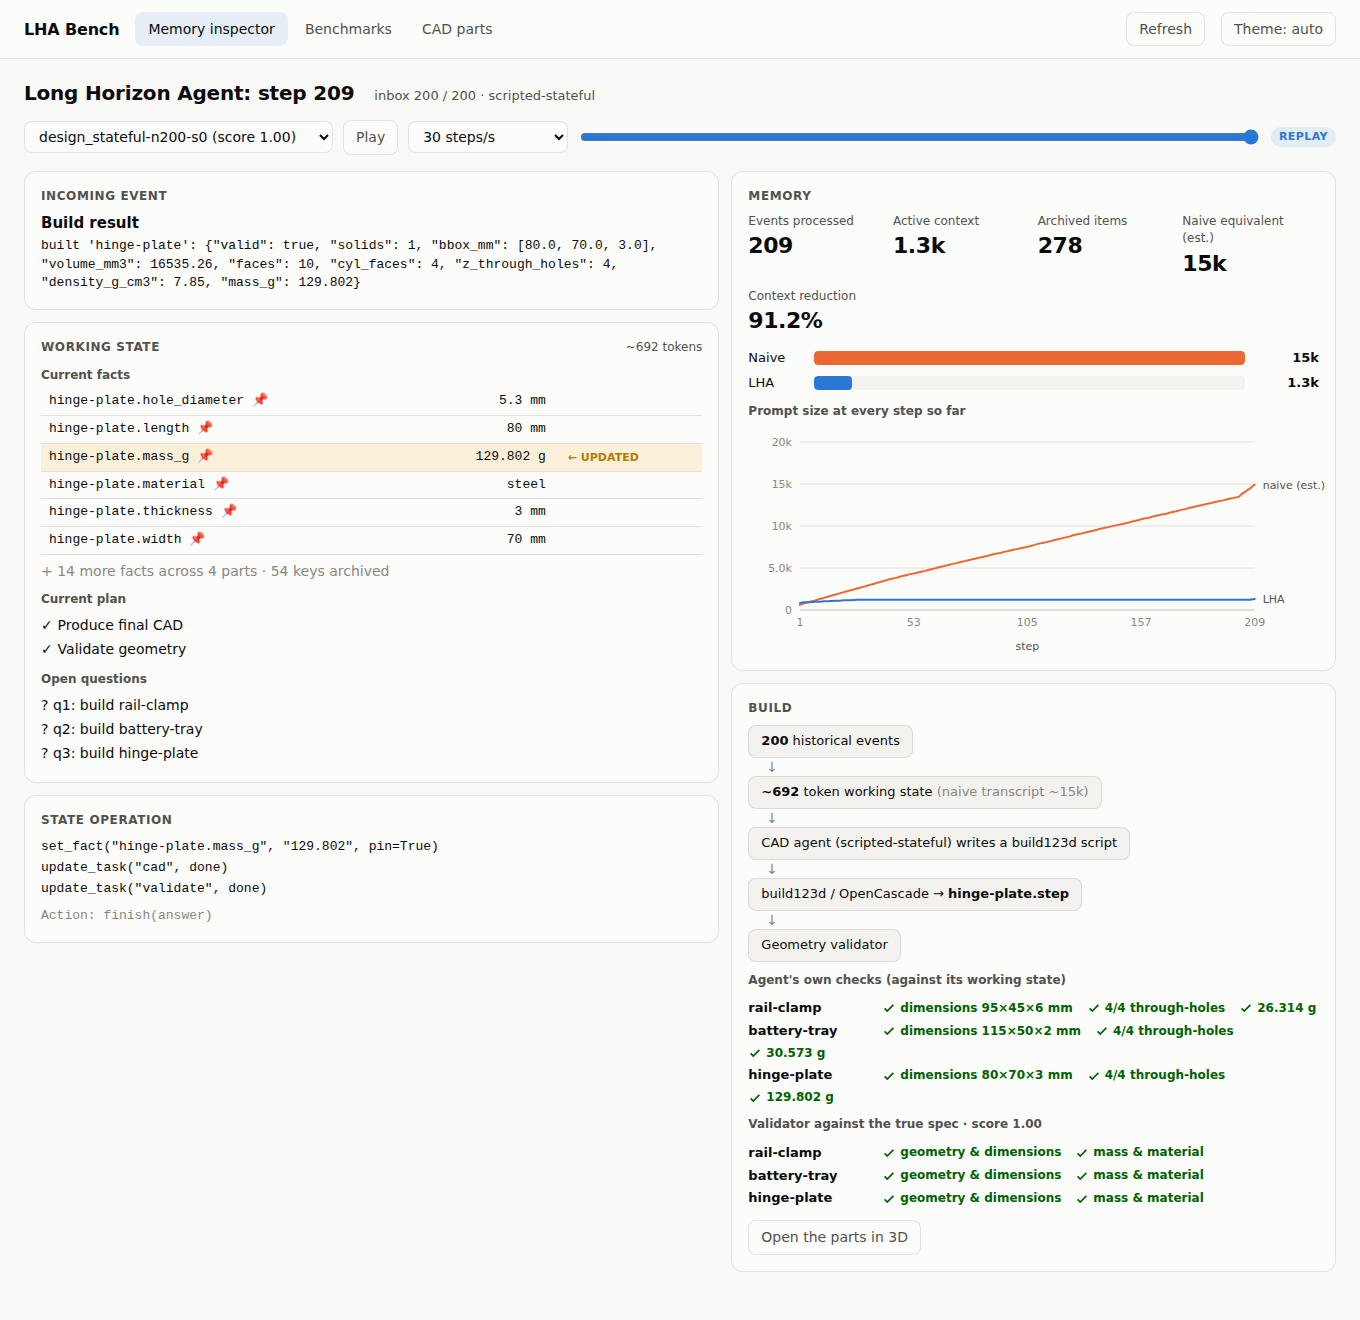
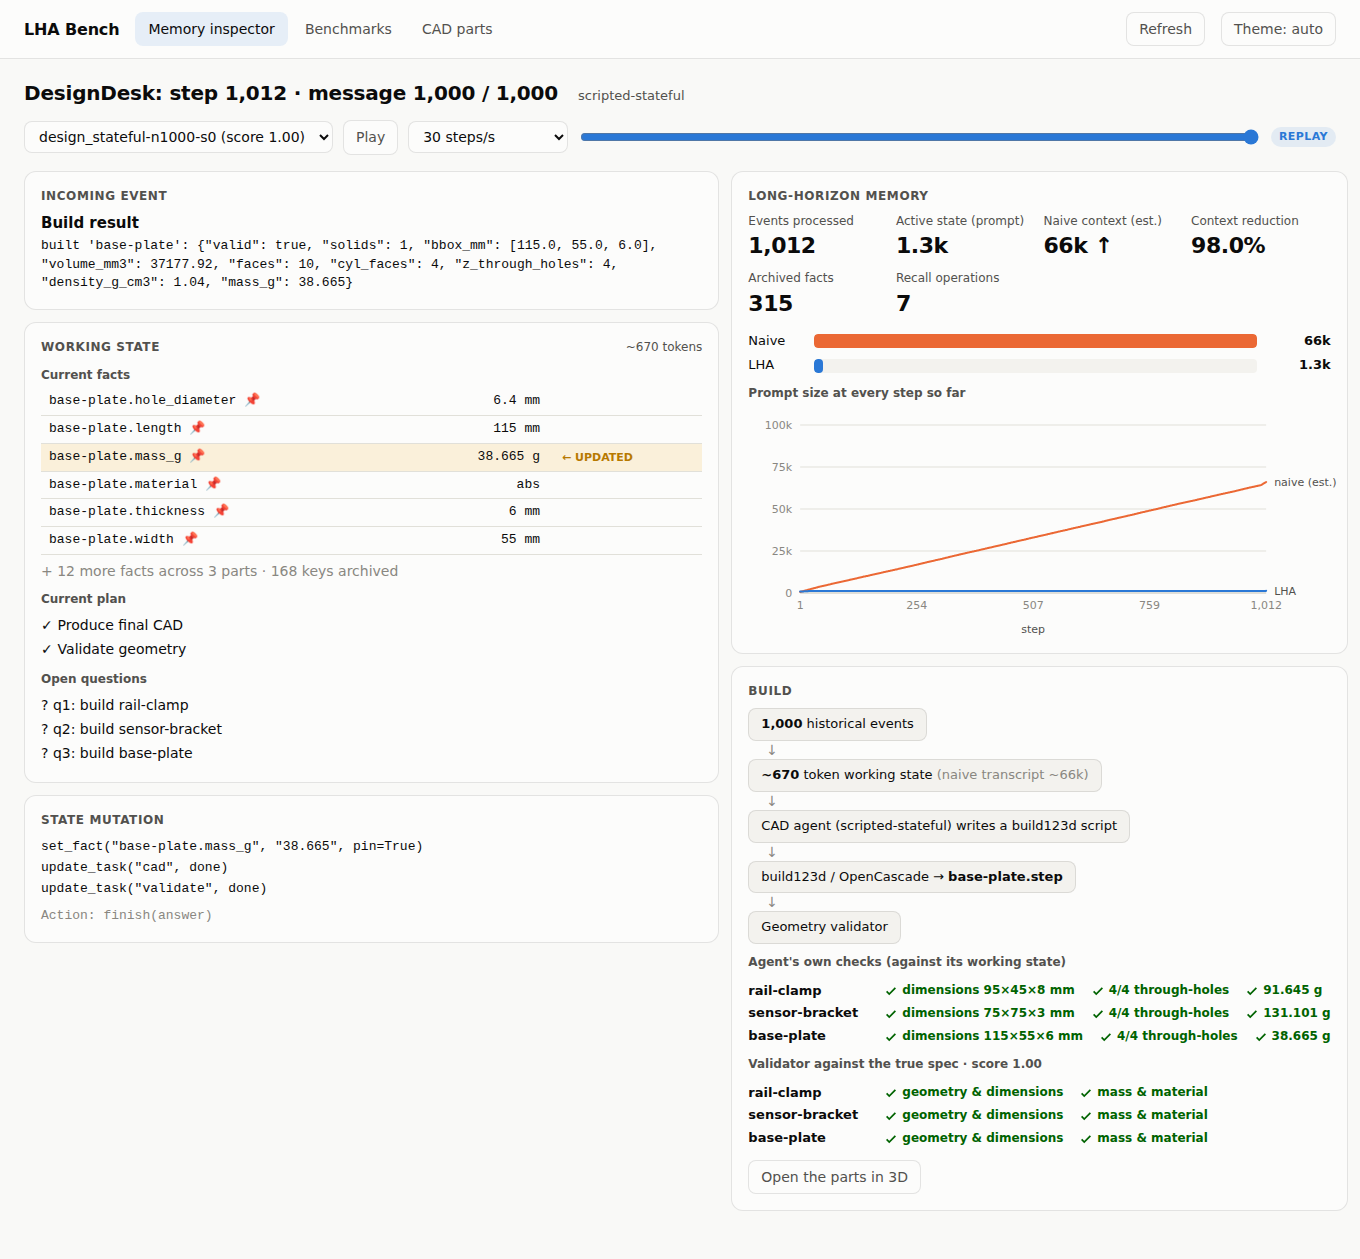
Inspector: state mutation fork, archived-fact and recall counters, benchmark header
Brings the Memory State Inspector (terminal and dashboard) closer to the
spec'd layout:
- STATE MUTATION: an overwrite is drawn as old -> new, forking into the
  ACTIVE value and the superseded value sent to the ARCHIVE
- LONG-HORIZON MEMORY: active prompt vs naive context (with an up arrow
  while it grows), context reduction, archived facts and recall operations
  (cumulative), replacing the raw archive-item count
- header names the benchmark and message position:
  DESIGNDESK — STEP 822 · MESSAGE 821 / 1,000
- dashboard: fix a stray 'null' under the incoming event
- README frame, wording and screenshots updated; test covers the fork,
  counters and header

Claude-Session: https://claude.ai/code/session_014SvQR54nJWjQ6PdBPU4Ngb

diff --git a/lha/ui/index.html b/lha/ui/index.html
@@ -117,6 +117,14 @@ pre { background: var(--surface-2); border-radius: 8px; padding: 12px; overflow:
 details summary { cursor: pointer; color: var(--text-secondary); font-size: 13px; }
 
 /* ---------------- memory inspector */
+.ops .fork { border: 1px solid var(--border); border-radius: 10px; padding: 10px 12px; margin: 2px 0 8px; background: var(--surface-2); }
+.fork-change { font-size: 16px; margin: 4px 0 8px; }
+.fork-split { display: grid; grid-template-columns: 1fr 1fr; gap: 8px; }
+.ops .fork-split > div { border-radius: 8px; padding: 6px 10px; display: grid; gap: 2px; }
+.fork-split span { font-size: 11px; font-weight: 700; letter-spacing: .06em; }
+.fork-split em { font-style: normal; font-size: 11px; color: var(--text-muted); }
+.fork-active { background: var(--accent-wash); } .fork-active span { color: var(--series-1); }
+.fork-archive { background: rgba(235,104,52,0.12); } .fork-archive span { color: #c25a1c; }
 .insp-head { display: flex; flex-wrap: wrap; align-items: baseline; gap: 12px 20px; margin-bottom: 12px; }
 .insp-head h2 { font-size: 20px; margin: 0; letter-spacing: -0.01em; }
 .insp-head .meta { color: var(--text-secondary); font-size: 13px; }
@@ -615,6 +623,7 @@ class Viewer {
 // ------------------------------------------------------------------ memory inspector
 // Replays runs/<run>/trace.jsonl (written by the stateful agent every step), or follows it live.
 const I = { run: null, recs: [], views: [], idx: 0, playing: false, timer: null, poll: null, total: null, summary: null, done: false };
+const appendAll = (node, ...kids) => node.append(...kids.filter(k => k != null && k !== false));
 const UNIT = { length: "mm", width: "mm", thickness: "mm", hole_diameter: "mm", mass_g: "g" };
 const withUnit = (k, v) => { const u = UNIT[k.split(".").pop()]; const s = typeof v === "string" ? v : JSON.stringify(v); return u ? `${s} ${u}` : s; };
 
@@ -652,7 +661,9 @@ async function pullTrace() {
 function deriveView(pv, prev, r) {
   // Context carried between steps: inbox position, the part in focus, the agent's builds so far.
   const event = prev?.observation || "";
-  const v = { event, prevTool: prev?.tool, inbox: pv?.inbox || [0, null], entity: pv?.entity || null, builds: pv?.builds || {} };
+  const v = { event, prevTool: prev?.tool, inbox: pv?.inbox || [0, null], entity: pv?.entity || null, builds: pv?.builds || {},
+    archivedFacts: (pv?.archivedFacts || 0) + r.archived.filter(a => a[0].endsWith("_fact")).length,
+    recalls: (pv?.recalls || 0) + (r.tool === "recall" ? 1 : 0), prevNaive: prev?.naive_tokens ?? null };
   const m = event.match(/^msg (\d+)\/(\d+):/); if (m) v.inbox = [+m[1], +m[2]];
   const first = (r.ops || []).find(o => o.op === "set_fact")?.key;
   const changed = r.changes.map(c => c[0]);
@@ -688,8 +699,9 @@ function renderInspector() {
   $("#i-badge").textContent = I.done ? "REPLAY" : "LIVE"; $("#i-badge").className = "badge" + (I.done ? "" : " live");
   if (!r) return;
   const [read, total] = v.inbox;
-  $("#i-title").textContent = `Long Horizon Agent: step ${fmt(r.step)}`;
-  $("#i-meta").textContent = [total ? `inbox ${fmt(read)} / ${fmt(total)}` : null, r.model].filter(Boolean).join(" · ");
+  const bench = I.run.includes("design_") ? "DesignDesk" : /^(live_)?(stateful|naive)-n\d+/.test(I.run) ? "IncidentDesk" : "Long Horizon Agent";
+  $("#i-title").textContent = `${bench}: step ${fmt(r.step)}` + (total ? ` · message ${fmt(read)} / ${fmt(total)}` : "");
+  $("#i-meta").textContent = r.model;
   const changed = new Set(r.changes.map(c => c[0]));
   const recalled = new Set((r.ops || []).filter(o => o.op === "set_fact" && o.source === "recall").map(o => o.key));
 
@@ -697,15 +709,15 @@ function renderInspector() {
   const ev = el("div", { class: "card" }, el("h3", { text: "Incoming event" }));
   const text = (v.event.split("\n")[0] || "(start of run)").replace(/^msg \d+\/\d+: /, "");
   const eco = text.match(/\[(ECO-\d+)\] ([\w-]+): (\w+) changed to ([\w.]+)/);
-  if (v.prevTool === "recall") ev.append(el("div", { class: "event-title", style: "color:var(--good-text)", text: "Recall result from the archive" }), el("div", { class: "mono", text: v.event.slice(0, 300) }));
-  else if (v.prevTool === "cad_build") ev.append(el("div", { class: "event-title", text: "Build result" }), el("div", { class: "mono", text: text.slice(0, 220) }));
+  if (v.prevTool === "recall") appendAll(ev, el("div", { class: "event-title", style: "color:var(--good-text)", text: "Recall result from the archive" }), el("div", { class: "mono", text: v.event.slice(0, 300) }));
+  else if (v.prevTool === "cad_build") appendAll(ev, el("div", { class: "event-title", text: "Build result" }), el("div", { class: "mono", text: text.slice(0, 220) }));
   else if (eco) {
     const key = `${eco[2]}.${eco[3]}`, old = r.changes.find(c => c[0] === key)?.[1];
     const line = el("div", { class: "event-change mono" }, `${key}: `, old != null ? `${withUnit(key, old)} → ` : "", el("b", { text: withUnit(key, eco[4]) }));
-    ev.append(el("div", { class: "event-title", text: `${eco[1]} APPROVED` }), line,
+    appendAll(ev, el("div", { class: "event-title", text: `${eco[1]} APPROVED` }), line,
       old == null ? el("div", { class: "muted", text: "not in the working state before: a first value, or the old one was archived" }) : null);
-  } else if (text.startsWith("INBOX EMPTY")) ev.append(el("div", { class: "event-title", text: "Inbox empty: build requests" }), el("div", { class: "mono", text: text.split("->")[1] || text }));
-  else ev.append(el("div", { class: "mono", text }), !r.changes.length && v.prevTool === "next_message" ? el("div", { class: "muted", text: "No state change: noise, a rejected proposal, or already known." }) : null);
+  } else if (text.startsWith("INBOX EMPTY")) appendAll(ev, el("div", { class: "event-title", text: "Inbox empty: build requests" }), el("div", { class: "mono", text: text.split("->")[1] || text }));
+  else appendAll(ev, el("div", { class: "mono", text }), !r.changes.length && v.prevTool === "next_message" ? el("div", { class: "muted", text: "No state change: noise, a rejected proposal, or already known." }) : null);
 
   // ---- working state
   const ws = el("div", { class: "card" }, el("h3", {}, "Working state", el("span", { text: `~${fmt(r.state_tokens)} tokens` })));
@@ -728,10 +740,24 @@ function renderInspector() {
   ws.append(el("div", { class: "sub2", text: "Open questions" }), el("div", { class: "plan" }, ...(r.questions.length ? r.questions.map(q => el("div", { text: "? " + q })) : [el("div", { class: "muted", text: "None" })])));
 
   // ---- state operation
-  const op = el("div", { class: "card" }, el("h3", { text: "State operation" }));
+  const op = el("div", { class: "card" }, el("h3", { text: "State mutation" }));
   const box = el("div", { class: "ops mono" });
+  const oldOf = Object.fromEntries(r.changes.map(c => [c[0], c[1]]));
+  let forks = 0;
   for (const o of (r.ops || []).slice(0, 8)) {
     let t;
+    if (o.op === "set_fact" && oldOf[o.key] != null && forks < 2) {
+      // an overwrite: the new value stays active, the old one goes to the archive
+      forks++;
+      const oldV = withUnit(o.key, oldOf[o.key]), newV = withUnit(o.key, o.value);
+      box.append(el("div", { class: "fork" },
+        el("div", {}, el("b", { text: "set_fact " }), o.key),
+        el("div", { class: "fork-change" }, `${oldV} → `, el("b", { text: newV })),
+        el("div", { class: "fork-split" },
+          el("div", { class: "fork-active" }, el("span", { text: "ACTIVE" }), el("b", { text: newV })),
+          el("div", { class: "fork-archive" }, el("span", { text: "ARCHIVE" }), el("b", { text: oldV }), el("em", { text: "superseded" })))));
+      continue;
+    }
     if (o.op === "set_fact") t = `set_fact("${o.key}", ${JSON.stringify(o.value)}${o.pin ? ", pin=True" : ""})`;
     else if (o.op === "update_task") t = `update_task("${o.id}", ${o.status})`;
     else t = `${o.op}(${Object.entries(o).filter(([k]) => k !== "op").map(([k, x]) => JSON.stringify(x)).join(", ").slice(0, 70)})`;
@@ -739,7 +765,7 @@ function renderInspector() {
   }
   if (!(r.ops || []).length) box.append(el("div", { class: "muted", text: "none" }));
   const sup = r.archived.filter(a => a[0] === "superseded_fact"), evi = r.archived.filter(a => a[0] === "evicted_fact" || a[0] === "dropped_fact");
-  if (sup.length) box.append(el("div", { class: "arch", text: "Superseded: " + sup.map(a => `${a[1]} = ${withUnit(a[1], a[2])} → archive`).join(", ") }));
+  if (sup.length > forks) box.append(el("div", { class: "arch", text: "Superseded: " + sup.map(a => `${a[1]} = ${withUnit(a[1], a[2])} → archive`).join(", ") }));
   if (evi.length) box.append(el("div", { class: "arch", text: "Evicted to archive (over budget): " + evi.map(a => a[1]).join(", ") }));
   if (recalled.size) box.append(el("div", { class: "rest", text: "Restored from archive: " + [...recalled].join(", ") }));
   if (r.op_errors?.length) box.append(el("div", { class: "err", text: "op errors: " + r.op_errors.join("; ") }));
@@ -753,9 +779,11 @@ function renderInspector() {
   // ---- memory
   const red = r.naive_tokens ? 100 * (1 - r.prompt_tokens / r.naive_tokens) : 0;
   const tile = (k, val) => el("div", {}, el("div", { class: "k", text: k }), el("div", { class: "v", text: val }));
-  const mem = el("div", { class: "card" }, el("h3", { text: "Memory" }),
-    el("div", { class: "mem" }, tile("Events processed", fmt(r.step)), tile("Active context", fmtTok(r.prompt_tokens)),
-      tile("Archived items", fmt(r.archive_size)), tile("Naive equivalent (est.)", fmtTok(r.naive_tokens)), tile("Context reduction", red.toFixed(1) + "%")));
+  const growing = v.prevNaive != null && r.naive_tokens > v.prevNaive;
+  const mem = el("div", { class: "card" }, el("h3", { text: "Long-horizon memory" }),
+    el("div", { class: "mem" }, tile("Events processed", fmt(r.step)), tile("Active state (prompt)", fmtTok(r.prompt_tokens)),
+      tile("Naive context (est.)", fmtTok(r.naive_tokens) + (growing ? " ↑" : "")), tile("Context reduction", red.toFixed(1) + "%"),
+      tile("Archived facts", fmt(v.archivedFacts)), tile("Recall operations", fmt(v.recalls))));
   const top = Math.max(r.naive_tokens, r.prompt_tokens, 1);
   const barRow = (name, n, color) => [el("div", { text: name }), el("div", { class: "track" }, (() => { const f = el("div", { class: "fill" }); f.style.width = Math.max(0.6, 100 * n / top) + "%"; f.style.background = css(color); return f; })()), el("div", { class: "n", text: fmtTok(n) })];
   mem.append(el("div", { class: "bars" }, ...barRow("Naive", r.naive_tokens, "--series-2"), ...barRow("LHA", r.prompt_tokens, "--series-1")));

diff --git a/lha/inspect.py b/lha/inspect.py
@@ -81,6 +81,10 @@ class Inspector:
         self.inbox = (0, total_messages)
         self.history: list[tuple[int, int, int]] = []  # (step, prompt, naive) for the bar history
         self.builds: dict[str, dict] = {}  # part -> the agent's own check of its latest build
+        self.archived_facts = 0  # facts moved to the archive so far: superseded, evicted or dropped
+        self.recalls = 0         # recall operations so far
+        self.bench = ("DESIGNDESK" if "design_" in run_id else
+                      "INCIDENTDESK" if re.match(r"(live_)?(stateful|naive)-n\d+", run_id) else "LONG HORIZON AGENT")
 
     def feed(self, rec: dict) -> str:
         frame = self.render(rec)
@@ -99,6 +103,8 @@ class Inspector:
         if built := re.search(r"built '([\w-]+)': (\{.*\})", event):
             self.builds[built[1]] = json.loads(built[2])
         self.history.append((rec["step"], rec["prompt_tokens"], rec["naive_tokens"]))
+        self.archived_facts += sum(1 for kind, *_ in rec["archived"] if kind.endswith("_fact"))
+        self.recalls += rec["tool"] == "recall"
 
         out = [self._header(rec), "", self._event(event, rec), "", self._state(rec, changed), "",
                self._operation(rec), "", self._memory(rec)]
@@ -108,9 +114,9 @@ class Inspector:
 
     def _header(self, rec: dict) -> str:
         read, total = self.inbox
-        inbox = f"INBOX {read:,} / {total:,}" if total else ""
-        left = bold(f"LONG HORIZON AGENT — STEP {rec['step']:,}")
-        right = dim(f"{inbox}   {rec.get('model', '')}")
+        msg = f" · MESSAGE {read:,} / {total:,}" if total else ""
+        left = bold(f"{self.bench} — STEP {rec['step']:,}{msg}")
+        right = dim(rec.get("model", ""))
         return left + " " * max(1, W - _vis(left) - _vis(right)) + right
 
     def _event(self, event: str, rec: dict) -> str:
@@ -162,11 +168,20 @@ class Inspector:
         return "\n".join(lines)
 
     def _operation(self, rec: dict) -> str:
-        lines = [rule("STATE OPERATION")]
+        lines = [rule("STATE MUTATION")]
         ops = rec["ops"] or []
+        old_of = {k: old for k, old, _ in rec["changes"]}
+        forks = 0
         for op in ops[:6]:
             kind = op.get("op", "?")
-            if kind == "set_fact":
+            key = op.get("key")
+            if kind == "set_fact" and old_of.get(key) is not None and forks < 2:
+                # an overwrite: the new value stays active, the old one goes to the archive
+                forks += 1
+                old, new = _with_unit(key, old_of[key]), _with_unit(key, op.get("value"))
+                lines += [f"{bold('set_fact')}  {key}", f"          {old} → {bold(new)}",
+                          f"          ├─ {blue('ACTIVE ')}  {new}", f"          └─ {orange('ARCHIVE')}  {old}  " + dim("(superseded)")]
+            elif kind == "set_fact":
                 pin = ", pin=True" if op.get("pin") else ""
                 lines.append(f'set_fact("{op.get("key")}", {json.dumps(op.get("value"))}{pin})')
             elif kind == "update_task":
@@ -181,7 +196,7 @@ class Inspector:
             lines.append(dim("none"))
         sup = [(k, v) for kind, k, v in rec["archived"] if kind == "superseded_fact"]
         evi = [k for kind, k, _ in rec["archived"] if kind in ("evicted_fact", "dropped_fact")]
-        if sup:
+        if len(sup) > forks:
             lines.append("Superseded:  " + ", ".join(f"{k} = {_with_unit(k, v)} → archive" for k, v in sup)[:W - 13])
         if evi:
             lines.append(orange("Evicted to archive (over budget):  ") + ", ".join(evi)[:W - 35])
@@ -198,10 +213,12 @@ class Inspector:
     def _memory(self, rec: dict) -> str:
         naive, active = rec["naive_tokens"], rec["prompt_tokens"]
         red_pct = 100 * (1 - active / naive) if naive else 0
-        rows = [("Events processed", f"{rec['step']:,}"), ("Active context", f"{active:,} tokens"),
-                ("Archived items", f"{rec['archive_size']:,}"), ("Naive equivalent (est.)", f"{naive:,} tokens"),
-                ("Context reduction", f"{red_pct:.1f}%")]
-        lines = [rule("MEMORY")] + [f"{k:<30}{v:>20}" for k, v in rows]
+        growing = len(self.history) > 1 and naive > self.history[-2][2]
+        rows = [("Events processed", f"{rec['step']:,}"), ("Active state (prompt)", f"{active:,} tokens"),
+                ("Naive context (est.)", f"{naive:,} tokens" + (" ↑" if growing else "  ")),
+                ("Context reduction", f"{red_pct:.1f}%"), ("Archived facts", f"{self.archived_facts:,}"),
+                ("Recall operations", f"{self.recalls:,}")]
+        lines = [rule("LONG-HORIZON MEMORY")] + [f"{k:<30}{v:>22}" for k, v in rows]
         top = max(naive, active, 1)
         bw = W - 18
 

diff --git a/tests/test_cad.py b/tests/test_cad.py
@@ -88,6 +88,7 @@ def test_ui_serves_runs_grades_and_meshes(tmp_path):
 
 def test_memory_inspector_trace_and_views(tmp_path):
     import json
+    import re
 
     from lha.bench.run import run_one
     from lha.inspect import Inspector
@@ -107,6 +108,8 @@ def test_memory_inspector_trace_and_views(tmp_path):
     ins = Inspector(run_dir.name, 120, summary)
     frames = [ins.feed(r) for r in recs]
     assert "← UPDATED" in "".join(frames) and "Evicted to archive" in "".join(frames)
+    assert "└─ ARCHIVE" in "".join(frames)  # an overwrite forks: new value active, old value archived
+    assert re.search(r"Recall operations\s+[1-9]", frames[-1]) and frames[0].startswith("DESIGNDESK")
     assert "Geometry validator" in frames[-1] and "score 1.00" in frames[-1]
 
     t = UI(tmp_path).trace(run_dir.name, after=len(recs) - 5)

diff --git a/README.md b/README.md
@@ -92,14 +92,15 @@ Longer horizons (`--sizes 200,1000`) and more seeds are the next experiment. See
 ## Watch it work: the Memory State Inspector
 
 **History grows. State doesn't have to.** The inspector makes that visible while the agent runs. For
-every step it shows the incoming event, the working state the model actually sees, the state operation
-the event caused (what was overwritten, and what was superseded, evicted or recalled), and how big the
-prompt is against the transcript a naive agent would be carrying by then.
+every step it shows the incoming event, the working state the model actually sees, the state mutation
+the event caused (an overwrite forks into the ACTIVE value and the superseded value sent to the ARCHIVE;
+evictions and recalls are shown too), and long-horizon memory counters: events processed, active prompt
+against the naive context it replaces, context reduction, archived facts and recall operations.
 
 A real frame, from step 822 of a 1,000-message DesignDesk run:
 
 ```text
-LONG HORIZON AGENT — STEP 822            INBOX 821 / 1,000   scripted-stateful
+DESIGNDESK — STEP 822 · MESSAGE 821 / 1,000                  scripted-stateful
 
 INCOMING EVENT
 ──────────────────────────────────────────────────────────────────────────────
@@ -119,26 +120,25 @@ CURRENT PLAN
 OPEN QUESTIONS
   None
 
-STATE OPERATION
+STATE MUTATION
 ──────────────────────────────────────────────────────────────────────────────
-set_fact("sensor-bracket.hole_diameter", "3.2")
-Superseded:  sensor-bracket.hole_diameter = 5.3 mm → archive
+set_fact  sensor-bracket.hole_diameter
+          5.3 mm → 3.2 mm
+          ├─ ACTIVE   3.2 mm
+          └─ ARCHIVE  5.3 mm  (superseded)
 Action:  next_message()
 
-MEMORY
+LONG-HORIZON MEMORY
 ──────────────────────────────────────────────────────────────────────────────
-Events processed                               822
-Active context                        1,225 tokens
-Archived items                               1,080
-Naive equivalent (est.)              53,074 tokens
-Context reduction                            97.7%
+Events processed                                 822
+Active state (prompt)                   1,225 tokens
+Naive context (est.)                 53,074 tokens ↑
+Context reduction                              97.7%
+Archived facts                                   258
+Recall operations                                  0
 
 Naive   ████████████████████████████████████████████████████████████ 53.1K
 LHA     █ 1.2K
-
-prompt size over the run, same scale:
-Naive   ▁▁▁▁▂▂▂▂▂▂▂▂▂▃▃▃▃▃▃▃▃▄▄▄▄▄▄▄▄▄▅▅▅▅▅▅▅▅▅▆▆▆▆▆▆▆▆▆▇▇▇▇▇▇▇▇████
-LHA     ▁▁▁▁▁▁▁▁▁▁▁▁▁▁▁▁▁▁▁▁▁▁▁▁▁▁▁▁▁▁▁▁▁▁▁▁▁▁▁▁▁▁▁▁▁▁▁▁▁▁▁▁▁▁▁▁▁▁▁▁
 ```
 
 When the inbox runs out and the build requests arrive, a **BUILD** panel shows the path from thousands of
@@ -157,7 +157,9 @@ The same view is the first tab of the dashboard (`python -m lha.ui`), with play/
 step slider, a chart of prompt size at every step, and a button to open the built parts in 3D. It follows
 live runs as they write their trace.
 
-![Memory inspector tab: the working state, the state operation, memory against the naive transcript, and the build pipeline ending in the validator](docs/images/memory-inspector.png)
+![Memory inspector tab at step 822: an ECO overwrites a fact, the old value forks to the archive, and the naive context keeps growing](docs/images/memory-inspector-mutation.png)
+
+![Memory inspector tab: the working state, the state mutation, memory against the naive transcript, and the build pipeline ending in the validator](docs/images/memory-inspector.png)
 
 Every stateful run writes `runs/<run_id>/trace.jsonl` with one record per step, and both views read that
 file. "Naive equivalent" is an estimate: the same goal plus every earlier reply and tool result
@@ -504,9 +506,10 @@ A local web page (stdlib HTTP server, bound to localhost, no extra installs). It
 - Pick any traced run: offline, live, or still running (marked LIVE, and it follows the run as it goes).
 - Play/pause, a speed selector and a step slider move through the run one step at a time.
 - Each step shows the incoming event, the working state (facts for the part in focus marked ← UPDATED or
-  ← RECALLED, the plan, open questions), the state operation (what was superseded, evicted or restored),
-  and the memory panel: events, active context, archive size, naive estimate, context reduction, the two
-  bars, and a chart of prompt size at every step so far.
+  ← RECALLED, the plan, open questions), the state mutation (an overwrite drawn as its ACTIVE and ARCHIVE
+  halves; evictions and restores listed), and long-horizon memory: events, active prompt, naive context
+  (with ↑ while it grows), context reduction, archived facts, recall operations, the two bars, and a chart
+  of prompt size at every step so far.
 - In the build phase: the pipeline from historical events to working state, build123d, `.step` file and
   validator, with the agent's own checks per part and the final verdict, plus a button to open the parts in 3D.
 - See [Watch it work](#watch-it-work-the-memory-state-inspector) for the terminal version and what each part means.
